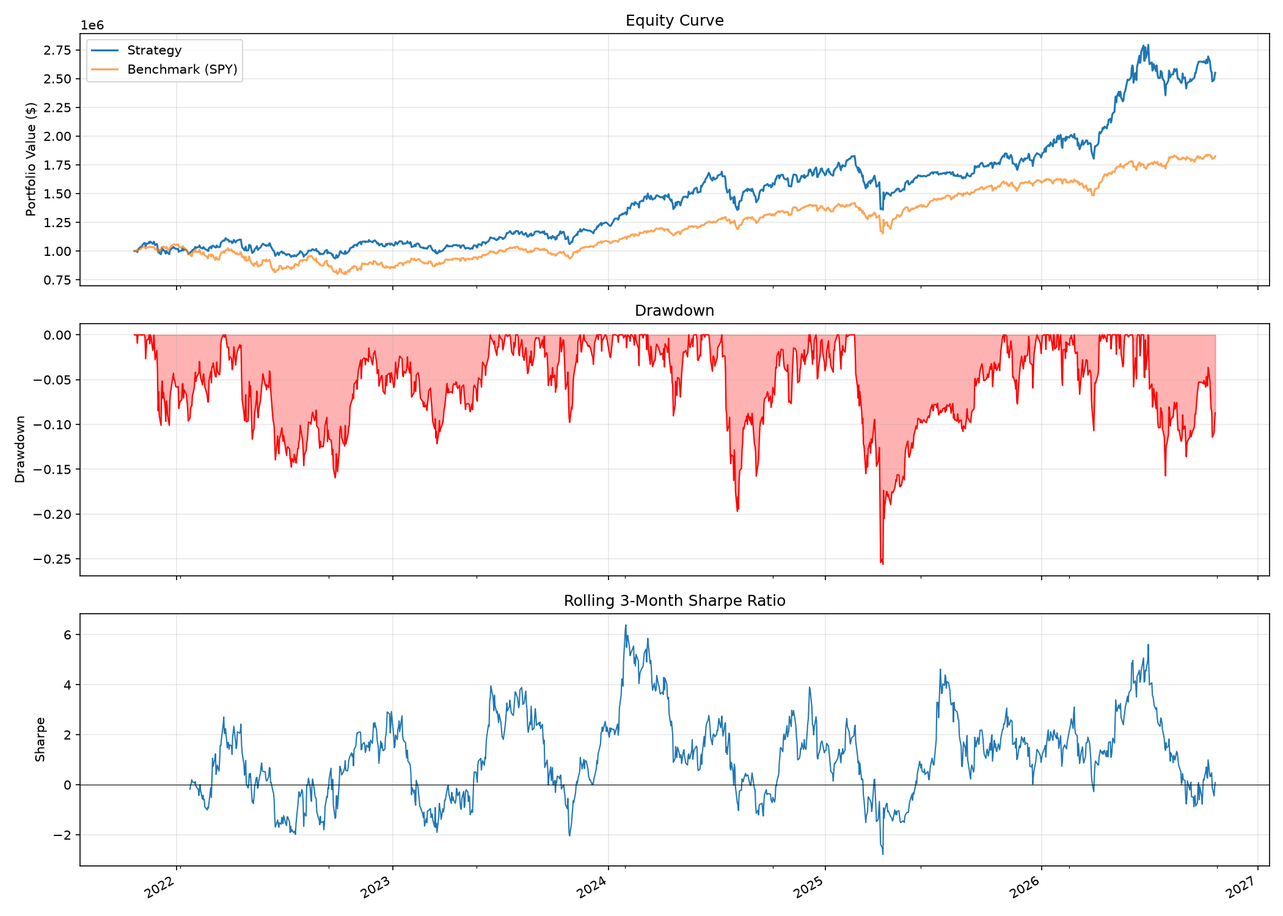
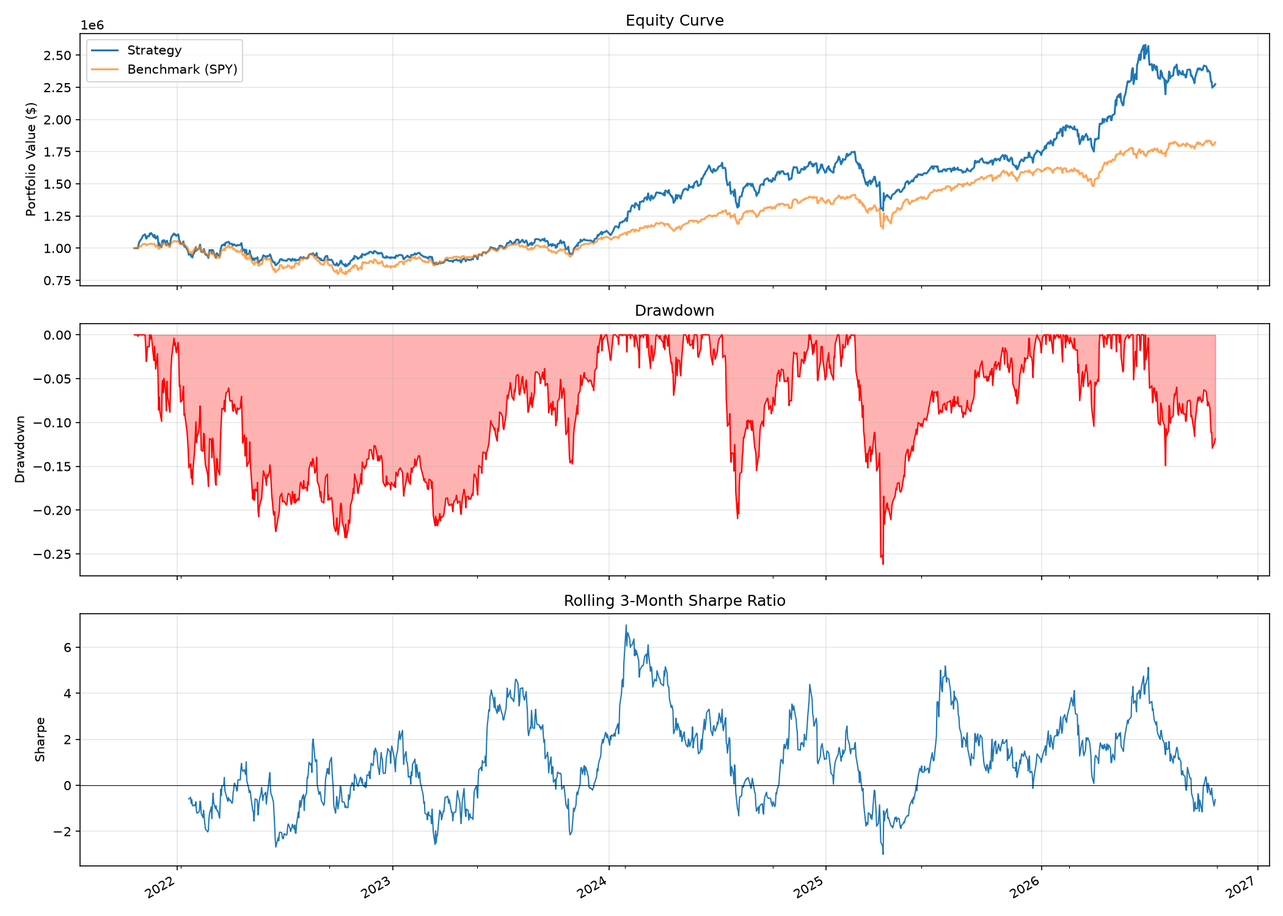
README: tables for all four books from run 39801405697 (windows ending 2026-10-21)
The multi-factor and LightGBM tables are the first from a backtest that
industry-neutralizes like the live path (multi-factor 5y +127.5% against
the un-neutralized +151.8%). The LightGBM section now says how far its
tables move between near-identical runs (5y between +94% and +138% today),
and the earnings book's windows come from the same refresh run as the rest.

Claude-Session: https://claude.ai/code/session_01SZpnwAYqHBgk4zLzSmnukJ

diff --git a/README.md b/README.md
@@ -1,8 +1,8 @@
 # Quant Trading System / 量化交易系统
 
-A multi-factor quantitative trading system for medium-term US equities. Uses momentum-driven alpha signals, score-proportional allocation with vol scaling, a total turnover cap and sector and position limits, dynamic leverage, and automated execution via Alpaca. A constrained mean-variance optimizer (Ledoit-Wolf covariance, smooth turnover penalty, SLSQP with analytic gradients) is available via `portfolio.allocation: mvo` as a research option; on the backtest windows ending 2026-10-22 it came out below the proportional allocation (multi-factor 5y +127.5% MVO vs +151.8% proportional), so the live books stay on `proportional`.
+A multi-factor quantitative trading system for medium-term US equities. Uses momentum-driven alpha signals, score-proportional allocation with vol scaling, a total turnover cap and sector and position limits, dynamic leverage, and automated execution via Alpaca. A constrained mean-variance optimizer (Ledoit-Wolf covariance, smooth turnover penalty, SLSQP with analytic gradients) is available via `portfolio.allocation: mvo` as a research option; on the backtest windows ending 2026-10-22 it came out below the proportional allocation (multi-factor 5y +127.5% MVO vs +151.8% proportional, both before the backtest was industry-neutralized), so the live books stay on `proportional`.
 
-多因子量化交易系统，专注于美股中期投资。基于动量驱动的 Alpha 信号，按分数比例配置权重，再经波动率缩放、总换手上限、行业与单票上限，结合动态杠杆管理，并通过 Alpaca 自动执行交易。带约束的均值-方差优化器（Ledoit-Wolf 协方差、平滑换手惩罚、解析梯度 SLSQP）可通过 `portfolio.allocation: mvo` 启用，属研究选项：在截至 2026-10-22 的回测窗口上低于分数比例配置（多因子 5 年 MVO +127.5% 对比 +151.8%），因此实盘账本保持 `proportional`。
+多因子量化交易系统，专注于美股中期投资。基于动量驱动的 Alpha 信号，按分数比例配置权重，再经波动率缩放、总换手上限、行业与单票上限，结合动态杠杆管理，并通过 Alpaca 自动执行交易。带约束的均值-方差优化器（Ledoit-Wolf 协方差、平滑换手惩罚、解析梯度 SLSQP）可通过 `portfolio.allocation: mvo` 启用，属研究选项：在截至 2026-10-22 的回测窗口上低于分数比例配置（多因子 5 年 MVO +127.5% 对比 +151.8%，两者都是回测尚未行业中性化时的结果），因此实盘账本保持 `proportional`。
 
 **[Paper Performance Dashboard / Paper 模拟盘看板 →](https://yingwang.github.io/trade/)**
 
@@ -37,42 +37,42 @@ Weekly decisions use paper-window alpha + attribution, execution health, model d
 
 ### Multi-Factor Strategy / 多因子策略 — **Candidate / 候选线**
 
-Recomputed 2026-10-22 by the `README Backtest Refresh` workflow (Actions run [39707077519](https://github.com/yingwang/trade/actions/runs/39707077519)) on commit `3228cf0`: one continuous simulation sliced into windows, next-session-open execution, the anchored rebalance calendar, the static sector table on both paths, targets computed from the actual drifted book, the volatility-scaled impact model, a turnover cap that may slow a rebalance but not sell the book below min(current, target) gross, and Sharpe/Sortino against a 4% risk-free rate.
+Recomputed 2026-10-22 by the `README Backtest Refresh` workflow (Actions run [39801405697](https://github.com/yingwang/trade/actions/runs/39801405697)) on commit `e55435f`, windows ending at the last completed session (2026-10-21): one continuous simulation sliced into windows, next-session-open execution, the anchored rebalance calendar, the static sector table on both paths (and, since this run, industry neutralization on the backtest path too), targets computed from the actual drifted book, the volatility-scaled impact model, a turnover cap that may slow a rebalance but not sell the book below min(current, target) gross, and Sharpe/Sortino against a 4% risk-free rate.
 
-由 `README Backtest Refresh` workflow 于 2026-10-22 重算（Actions run 39707077519，commit `3228cf0`）：一次连续模拟切成三个窗口，次日开盘成交，锚定的再平衡日历，回测与 paper/模拟盘共用的静态行业表，目标组合按真实漂移持仓计算，波动率尺度的冲击成本，换手上限只放慢调仓、不把毛头寸卖到「现有」与「目标」两者较低者之下，Sharpe/Sortino 按 4% 无风险利率计算。
+由 `README Backtest Refresh` workflow 于 2026-10-22 重算（Actions run 39801405697，commit `e55435f`，窗口止于最近一个已收盘交易日 2026-10-21）：一次连续模拟切成三个窗口，次日开盘成交，锚定的再平衡日历，回测与 paper/模拟盘共用的静态行业表（自这次起回测路径也做行业中性化），目标组合按真实漂移持仓计算，波动率尺度的冲击成本，换手上限只放慢调仓、不把毛头寸卖到「现有」与「目标」两者较低者之下，Sharpe/Sortino 按 4% 无风险利率计算。
 
-#### 5-Year Backtest (2021-10-22 → 2026-10-22)
-
-| Metric / 指标 | Strategy / 策略 | SPY | Difference / 差异 |
-|---------------|:-----------:|:---:|:---------:|
-| **Total Return / 总收益**  | **+151.8%** | +82.4% | **+69.4pp** |
-| **CAGR / 年化收益**         | **+20.4%** | — | — |
-| **Sharpe Ratio**        | **0.77** | — | — |
-| **Sortino Ratio**       | **1.09** | — | — |
-| **Max Drawdown / 最大回撤** | -25.6% | — | — |
-| **Information Ratio**   | **0.50** | — | — |
-
-#### 3-Year Backtest (2023-10-22 → 2026-10-22)
+#### 5-Year Backtest (2021-10-21 → 2026-10-21)
 
 | Metric / 指标 | Strategy / 策略 | SPY | Difference / 差异 |
 |---------------|:-----------:|:---:|:---------:|
-| **Total Return / 总收益**  | **+126.2%** | +90.7% | **+35.6pp** |
-| **CAGR / 年化收益**         | **+31.5%** | — | — |
-| **Sharpe Ratio**        | **1.09** | — | — |
-| **Sortino Ratio**       | **1.59** | — | — |
-| **Max Drawdown / 最大回撤** | -25.6% | — | — |
-| **Information Ratio**   | **0.50** | — | — |
+| **Total Return / 总收益**  | **+127.5%** | +82.2% | **+45.3pp** |
+| **CAGR / 年化收益**         | **+18.0%** | — | — |
+| **Sharpe Ratio**        | **0.68** | — | — |
+| **Sortino Ratio**       | **0.98** | — | — |
+| **Max Drawdown / 最大回撤** | -26.2% | — | — |
+| **Information Ratio**   | **0.43** | — | — |
 
-#### 1-Year Backtest (2025-10-22 → 2026-10-22)
+#### 3-Year Backtest (2023-10-21 → 2026-10-21)
 
 | Metric / 指标 | Strategy / 策略 | SPY | Difference / 差异 |
 |---------------|:-----------:|:---:|:---------:|
-| **Total Return / 总收益**  | **+46.2%** | +17.0% | **+29.2pp** |
-| **CAGR / 年化收益**         | **+46.6%** | — | — |
-| **Sharpe Ratio**        | **1.45** | — | — |
-| **Sortino Ratio**       | **2.18** | — | — |
-| **Max Drawdown / 最大回撤** | -15.8% | — | — |
-| **Information Ratio**   | **1.33** | — | — |
+| **Total Return / 总收益**  | **+128.5%** | +90.7% | **+37.9pp** |
+| **CAGR / 年化收益**         | **+32.0%** | — | — |
+| **Sharpe Ratio**        | **1.15** | — | — |
+| **Sortino Ratio**       | **1.71** | — | — |
+| **Max Drawdown / 最大回撤** | -26.2% | — | — |
+| **Information Ratio**   | **0.56** | — | — |
+
+#### 1-Year Backtest (2025-10-21 → 2026-10-21)
+
+| Metric / 指标 | Strategy / 策略 | SPY | Difference / 差异 |
+|---------------|:-----------:|:---:|:---------:|
+| **Total Return / 总收益**  | **+34.5%** | +16.4% | **+18.1pp** |
+| **CAGR / 年化收益**         | **+34.7%** | — | — |
+| **Sharpe Ratio**        | **1.20** | — | — |
+| **Sortino Ratio**       | **1.88** | — | — |
+| **Max Drawdown / 最大回撤** | -14.9% | — | — |
+| **Information Ratio**   | **1.00** | — | — |
 
 #### Performance Chart / 净值曲线 (5-Year)
 
@@ -82,48 +82,52 @@ The July 2026 tables (5-year +193.6%, Sharpe 0.87, max drawdown -28.9%) were pro
 
 2026 年 7 月的表格（五年 +193.6%，Sharpe 0.87，最大回撤 -28.9%）产生于回测路径尚无行业表、目标组合从上期目标而非实际持仓链式推导、冲击成本几乎为零的版本；上述修正之后，其中约一半的超额收益不复存在。最大回撤下降，是因为 50% 行业上限和行业中性化此时才真正起作用。
 
+The earlier 2026-10-22 table (run 39707077519: 5-year +151.8%) still came from a backtest that never industry-neutralized: `SignalGenerator.generate` took its sector map from the fundamentals snapshot, which the backtest does not have, while the live book neutralized every day. Both paths now neutralize by the static sector table, so the table above is the signal the account trades; the correction costs about 24 points over five years. On the same windows the 100 names held in equal weights returned about 17% a year against SPY's 12.8%, and the `docs/research/2026-10-22-alpha-audit.md` memo finds the composite's 21-day rank IC close to zero over 2008-2026: most of this book's excess is the universe and its leverage rather than the ranking.
+
+同日早些时候那张表（run 39707077519，五年 +151.8%）出自一个从未做行业中性化的回测：`SignalGenerator.generate` 从基本面快照里取行业，而回测没有快照，实盘却每天都在中性化。现在两条路径都按静态行业表中性化，上面这张表才是账户真正交易的那套信号，修正让五年少了约 24 个百分点。同样的窗口里，这 100 只等权持有年化约 17%，SPY 12.8%；`docs/research/2026-10-22-alpha-audit.md` 测得合成信号 2008 到 2026 年的 21 日秩相关 IC 接近零：这本账的超额主要来自股票池和杠杆，而非排序。
+
 ### Trend Strategy / 趋势策略 — **Sandbox / 沙盒** (params frozen; third paper account)
 
 A third book, on its own Alpaca paper account, built to compete with the two above on raw return: concentrated leveraged trend-following (`quant/trend_strategy.py`, `config_trend.yaml`, `paper_trade_trend.py`). Seven names, chosen by blended 12-1 / 6-1 / 3-month momentum among stocks above their 200-day average, sized by inverse volatility, scaled to a 35% volatility target with up to 1.9x gross. Three market warning lights (SPY below its 200-day average, SPY 21-day volatility above 30%, fewer than 30% of the universe above their 50-day averages) cap gross at 0.6x with one light on and send the book to cash with two. Rebalance every ten sessions on the shared anchored calendar; every session checks trailing stops (20% below the highest close since entry) and the regime cap, and acts the same day. The parameters were settled by a twelve-variant sweep on the five-year window: rebalancing every ten sessions rather than five and holding seven names rather than ten were the two changes that mattered, while tighter stops and a softer regime cut both hurt. Backtest tables come from the `Trend Backtest` workflow and `README Backtest Refresh` with the trend option; they carry the same survivorship caveat as the multi-factor table.
 
 第三个账户走的是另一条路：集中、带杠杆的趋势跟随。在 200 日线之上的股票里按 12-1、6-1、3 个月动量混合排序取前七只，按波动率倒数配权，把组合年化波动定在 35% 并允许最高 1.9 倍毛头寸；大盘破 200 日线、大盘 21 日波动率超过 30%、市场宽度弱于 30% 这三盏警示灯亮一盏毛头寸压到 0.6 倍、亮两盏清仓。每十个交易日按共享的锚定日历调仓，每个交易日检查 20% 移动止损与仓位上限并当天执行。参数由五年窗口上的十二组对照定下：十日调仓代替五日、七只代替十只是两处真正起作用的改动，收紧止损和放松减仓门槛都更差。回测表由 `Trend Backtest` workflow 生成，幸存者偏差的说明与多因子表相同。
 
-Recomputed 2026-10-22 by the `README Backtest Refresh` workflow (Actions run [39707077519](https://github.com/yingwang/trade/actions/runs/39707077519)) on commit `3228cf0`, with the trailing stop measured from the highest close since entry (the 18 September fix) and the turnover cap that lets an under-invested book re-lever, the same continuous simulation sliced into windows as the multi-factor tables above. Static universe, so the same survivorship caveat applies, and the concentration (seven names, up to 1.9x gross) makes the numbers more sensitive to it than the multi-factor book's.
+Recomputed 2026-10-22 by the `README Backtest Refresh` workflow (Actions run [39801405697](https://github.com/yingwang/trade/actions/runs/39801405697)) on commit `e55435f`, windows ending 2026-10-21, with the trailing stop measured from the highest close since entry (the 18 September fix) and the turnover cap that lets an under-invested book re-lever, the same continuous simulation sliced into windows as the multi-factor tables above. Static universe, so the same survivorship caveat applies, and the concentration (seven names, up to 1.9x gross) makes the numbers more sensitive to it than the multi-factor book's.
 
-由 `README Backtest Refresh` workflow 于 2026-10-22 重算（Actions run 39707077519，commit `3228cf0`），移动止损已按入场以来最高收盘计算（9 月 18 日的修正），换手上限也已允许欠配的账户加回仓位，与上面多因子表同样是一次连续模拟切成三个窗口。股票池是静态的，幸存者偏差的说明同上；这一本只持七只、最高 1.9 倍毛头寸，对这种偏差比多因子那本更敏感。
+由 `README Backtest Refresh` workflow 于 2026-10-22 重算（Actions run 39801405697，commit `e55435f`，窗口止于 2026-10-21），移动止损已按入场以来最高收盘计算（9 月 18 日的修正），换手上限也已允许欠配的账户加回仓位，与上面多因子表同样是一次连续模拟切成三个窗口。股票池是静态的，幸存者偏差的说明同上；这一本只持七只、最高 1.9 倍毛头寸，对这种偏差比多因子那本更敏感。
 
-### 5-Year Backtest (2021-10-22 → 2026-10-22)
-
-| Metric / 指标 | Strategy / 策略 | SPY | Difference / 差异 |
-|---------------|:-----------:|:---:|:---------:|
-| **Total Return / 总收益**  | **+200.1%** | +82.4% | **+117.7pp** |
-| **CAGR / 年化收益**         | **+24.7%** | — | — |
-| **Sharpe Ratio**        | **0.74** | — | — |
-| **Sortino Ratio**       | **1.08** | — | — |
-| **Max Drawdown / 最大回撤** | -31.3% | — | — |
-| **Information Ratio**   | **0.52** | — | — |
-
-### 3-Year Backtest (2023-10-22 → 2026-10-22)
+### 5-Year Backtest (2021-10-21 → 2026-10-21)
 
 | Metric / 指标 | Strategy / 策略 | SPY | Difference / 差异 |
 |---------------|:-----------:|:---:|:---------:|
-| **Total Return / 总收益**  | **+220.8%** | +90.7% | **+130.2pp** |
-| **CAGR / 年化收益**         | **+47.9%** | — | — |
-| **Sharpe Ratio**        | **1.21** | — | — |
-| **Sortino Ratio**       | **1.82** | — | — |
-| **Max Drawdown / 最大回撤** | -29.7% | — | — |
-| **Information Ratio**   | **0.81** | — | — |
+| **Total Return / 总收益**  | **+205.0%** | +82.2% | **+122.8pp** |
+| **CAGR / 年化收益**         | **+25.1%** | — | — |
+| **Sharpe Ratio**        | **0.75** | — | — |
+| **Sortino Ratio**       | **1.09** | — | — |
+| **Max Drawdown / 最大回撤** | -33.3% | — | — |
+| **Information Ratio**   | **0.54** | — | — |
 
-### 1-Year Backtest (2025-10-22 → 2026-10-22)
+### 3-Year Backtest (2023-10-21 → 2026-10-21)
 
 | Metric / 指标 | Strategy / 策略 | SPY | Difference / 差异 |
 |---------------|:-----------:|:---:|:---------:|
-| **Total Return / 总收益**  | **+40.6%** | +17.0% | **+23.6pp** |
-| **CAGR / 年化收益**         | **+41.0%** | — | — |
-| **Sharpe Ratio**        | **1.02** | — | — |
-| **Sortino Ratio**       | **1.47** | — | — |
-| **Max Drawdown / 最大回撤** | -23.5% | — | — |
-| **Information Ratio**   | **0.83** | — | — |
+| **Total Return / 总收益**  | **+235.4%** | +90.7% | **+144.7pp** |
+| **CAGR / 年化收益**         | **+50.1%** | — | — |
+| **Sharpe Ratio**        | **1.25** | — | — |
+| **Sortino Ratio**       | **1.88** | — | — |
+| **Max Drawdown / 最大回撤** | -31.2% | — | — |
+| **Information Ratio**   | **0.87** | — | — |
+
+### 1-Year Backtest (2025-10-21 → 2026-10-21)
+
+| Metric / 指标 | Strategy / 策略 | SPY | Difference / 差异 |
+|---------------|:-----------:|:---:|:---------:|
+| **Total Return / 总收益**  | **+40.0%** | +16.4% | **+23.6pp** |
+| **CAGR / 年化收益**         | **+40.2%** | — | — |
+| **Sharpe Ratio**        | **1.00** | — | — |
+| **Sortino Ratio**       | **1.45** | — | — |
+| **Max Drawdown / 最大回撤** | -19.4% | — | — |
+| **Information Ratio**   | **0.82** | — | — |
 
 ### Earnings Book / 财报账本 — **Candidate / 候选线** (fourth paper account)
 
@@ -135,27 +139,29 @@ The one set of signals with a positive IC in every sub-period since 2010 was bui
 
 唯一在 2010 年以来每个子时期都为正的信号，来自标普 500 时点池上的财报公告：一致预期的盈利意外、EPS 同比增速，再加 12 到 6 个月的中期动量。研究里的合成还有一项「离下次财报的天数」，账本没有用它：它在回测里的贡献来自比公司确认日期更早地知道日期。账本按合成分数取前 25 只等权，每五个交易日调仓，不设止损、不看灯号、不加杠杆：趋势本的每一样风控装置在这套排序上都减收益，波动率倒数配权与波动率目标也一样（见 `docs/research/2026-10-22-alpha-audit.md`）。
 
-Backtest on 2026-10-22 (Actions run [39757846026](https://github.com/yingwang/trade/actions/runs/39757846026), `research/earnings_book.py`, 2010-01-01 to 2026-10-22, the engine's next-open fills and impact model, no leverage): CAGR 16.7% against SPY's 14.7%, Sharpe 0.63, max drawdown -34.1%; 2016 to 2020 trailed SPY in every year but one (2018 -11.1% against -4.6%). The windows below are slices of that run. Two cautions: delisted members have no price history, so the universe still favours survivors, and the same configuration moves by about a point of CAGR between runs with Yahoo's coverage of the calendar (an identical variant earlier that day came out at 15.6%). The comparison that counts is the paper record.
+Backtest on 2026-10-22 (Actions run [39757846026](https://github.com/yingwang/trade/actions/runs/39757846026), `research/earnings_book.py`, 2010-01-01 to 2026-10-22, the engine's next-open fills and impact model, no leverage): CAGR 16.7% against SPY's 14.7%, Sharpe 0.63, max drawdown -34.1%; 2016 to 2020 trailed SPY in every year but one (2018 -11.1% against -4.6%). Two cautions: delisted members have no price history, so the universe still favours survivors, and the same configuration moves by about a point of CAGR between runs with Yahoo's coverage of the calendar (an identical variant earlier that day came out at 15.6%). The comparison that counts is the paper record.
+
+The windows below come from the same `README Backtest Refresh` run as the other books' tables ([39801405697](https://github.com/yingwang/trade/actions/runs/39801405697), commit `e55435f`, windows ending 2026-10-21), one continuous simulation started five years back; a book started in 2010 arrives in October 2021 holding other names, which is why the long run's own five-year slice reads higher (+181.2%).
 
 | Window / 窗口 | Strategy / 策略 | SPY | Difference / 差异 | CAGR | Sharpe | Max DD |
 |---|:---:|:---:|:---:|:---:|:---:|:---:|
-| 5-Year (2021-10-22 → 2026-10-22) | +181.2% | +82.4% | +98.8pp | +23.1% | 0.83 | -21.6% |
-| 3-Year (2023-10-22 → 2026-10-22) | +165.5% | +90.7% | +74.8pp | +38.8% | 1.39 | -19.3% |
-| 1-Year (2025-10-22 → 2026-10-22) | +29.0% | +17.0% | +12.0pp | +29.2% | 0.95 | -15.7% |
+| 5-Year (2021-10-21 → 2026-10-21) | +146.0% | +82.2% | +63.8pp | +19.8% | 0.73 | -21.1% |
+| 3-Year (2023-10-21 → 2026-10-21) | +143.4% | +90.7% | +52.8pp | +34.8% | 1.30 | -19.8% |
+| 1-Year (2025-10-21 → 2026-10-21) | +28.4% | +16.4% | +12.0pp | +28.6% | 0.96 | -14.6% |
 
 With a fixed 1.3x gross the four-signal version's 2010-2026 CAGR rose from 16.1% to 17.2% with a 47% drawdown, with 1.5x to 18.4% and 53%; the book runs unlevered until its paper record says otherwise. Tables for this book come from `README Backtest Refresh` with the earnings option.
 
 ### LightGBM Strategy / LightGBM 策略 — **Research / 研究线** (paper orders)
 
-Same run, same windows. In this run the ranking model is ahead of the benchmark in all three windows; in the 2026-09-22 run (35768997115) it trailed in all three (5-year +61.7% against +89.0%). What changed between the two runs is not the model but the turnover cap, which now lets an under-invested book re-lever instead of pinning it, plus a month of market rolling into every window. The nightly training diagnostics are unchanged (best iteration between 1 and 8, baseline skill negative), and the paper account's excess return since April 2026 is, by the dashboard's attribution, mostly sector exposure. Treat this strategy as research until the model itself shows skill. Its paper account trades on schedule; from 2026-09-18 to 09-22 the schedule ran dry-run and the account sat frozen, so that stretch of its paper record is not the model.
+Same run, same windows. The model's tables move a long way between runs that should be nearly identical: five years came out at +137.6% in the morning's run (39707077519), +125.1% with the neutralization fix on its branch (39736781949), +136.8% in a run that included the half-formed 10/22 bar (39799812590) and +94.3% here, against +61.7% in the 2026-09-22 run (35768997115). A one-session shift in the start of the continuous simulation changes the first holdings, and with a model this close to noise the path never converges back. Read these numbers as an interval, not a point. The nightly training diagnostics are unchanged (best iteration between 1 and 8, baseline skill negative), and the paper account's excess return since April 2026 is, by the dashboard's attribution, mostly sector exposure. Treat this strategy as research until the model itself shows skill. Its paper account trades on schedule; from 2026-09-18 to 09-22 the schedule ran dry-run and the account sat frozen, so that stretch of its paper record is not the model.
 
-同一次运行、同样的窗口。这一次排序模型在三个窗口都领先基准；2026-09-22 那次（run 35768997115）它三个窗口全部落后（五年 +61.7% 对 +89.0%）。两次之间变的不是模型，而是换手上限：它现在允许欠配的账户加回仓位，不再把账户钉在原地，另外每个窗口都多滚进了一个月行情。每夜重训的诊断没有变化（best iteration 在 1 到 8 之间，基线技能为负），模拟账户自 2026 年 4 月以来的超额收益按看板归因主要来自行业暴露。在模型本身显出能力之前，这条策略仍应视为研究项目。它的模拟账户照常定时交易；2026-09-18 到 09-22 定时任务只做 dry-run，账户原样冻结，这一段模拟盘记录反映的不是模型。
+同一次运行、同样的窗口。这个模型的表格在本应几乎相同的几次运行之间相差很大：五年期在当天早上那次（39707077519）是 +137.6%，在行业中性修正的分支上（39736781949）是 +125.1%，在误含 10/22 半截 K 线的那次（39799812590）是 +136.8%，这一次是 +94.3%，而 2026-09-22 那次（35768997115）是 +61.7%。连续模拟的起点挪一个交易日，第一批持仓就不同，而这个模型离噪声太近，路径分开之后不会再收拢。这些数字应当当成一个区间来读，而不是一个点。每夜重训的诊断没有变化（best iteration 在 1 到 8 之间，基线技能为负），模拟账户自 2026 年 4 月以来的超额收益按看板归因主要来自行业暴露。在模型本身显出能力之前，这条策略仍应视为研究项目。它的模拟账户照常定时交易；2026-09-18 到 09-22 定时任务只做 dry-run，账户原样冻结，这一段模拟盘记录反映的不是模型。
 
 | Window / 窗口 | Strategy / 策略 | SPY | Difference / 差异 | Sharpe | Max DD |
 |---|:---:|:---:|:---:|:---:|:---:|
-| 5-Year (2021-10-22 → 2026-10-22) | +137.6% | +82.4% | +55.2pp | 0.77 | -20.5% |
-| 3-Year (2023-10-22 → 2026-10-22) | +128.7% | +90.7% | +38.1pp | 1.30 | -20.5% |
-| 1-Year (2025-10-22 → 2026-10-22) | +30.7% | +17.0% | +13.6pp | 1.28 | -9.4% |
+| 5-Year (2021-10-21 → 2026-10-21) | +94.3% | +82.2% | +12.1pp | 0.57 | -24.5% |
+| 3-Year (2023-10-21 → 2026-10-21) | +88.5% | +90.7% | -2.2pp | 0.96 | -24.5% |
+| 1-Year (2025-10-21 → 2026-10-21) | +34.2% | +16.4% | +17.8pp | 1.30 | -11.8% |
 
 Even after rerunning, the default static stock universe must be labelled as
 survivorship-biased. A bias-reduced run requires both the optional

diff --git a/CLAUDE.md b/CLAUDE.md
@@ -54,7 +54,7 @@ data/   signals/   portfolio/   execution/   backtest/
 - **`quant/data/market_data.py`** — yfinance wrapper for prices, same-download opens/volumes, and fundamentals
 - **`quant/data/quality.py`** — `DataQualityChecker` (logging, backtest path) and `enforce_live_data_quality` (hard gate, live path — drops dead symbols, aborts on breadth collapse)
 - **`quant/signals/factors.py`** — Alpha factor calculations. Factors are industry-neutralized and winsorized to ±3σ. `factor_weights` in config is the single source of truth: unlisted factors are 0, no hidden defaults
-- **`quant/portfolio/optimizer.py`** — Portfolio construction. `optimize_weights()` builds score-proportional weights by default (`portfolio.allocation: proportional`, what the live books run); `portfolio.allocation: mvo` runs the constrained mean-variance optimizer instead (Ledoit-Wolf covariance, smooth turnover penalty, SLSQP with analytic gradients, outcome in `last_solve_status`), a research option that backtested below proportional (multi-factor 5y +127.5% MVO vs +151.8% proportional, windows ending 2026-10-22). `detect_regime()` (SPY vol), `apply_vol_scaling()` (0.8x–1.8x), and `enforce_turnover_cap()` — the real 40% cap, applied to final weights including exit legs and leverage changes, the same way for either allocation
+- **`quant/portfolio/optimizer.py`** — Portfolio construction. `optimize_weights()` builds score-proportional weights by default (`portfolio.allocation: proportional`, what the live books run); `portfolio.allocation: mvo` runs the constrained mean-variance optimizer instead (Ledoit-Wolf covariance, smooth turnover penalty, SLSQP with analytic gradients, outcome in `last_solve_status`), a research option that backtested below proportional (multi-factor 5y +127.5% MVO vs +151.8% proportional, windows ending 2026-10-22, both before the backtest was industry-neutralized; neutralized proportional is +127.5% too, run 39801405697). `detect_regime()` (SPY vol), `apply_vol_scaling()` (0.8x–1.8x), and `enforce_turnover_cap()` — the real 40% cap, applied to final weights including exit legs and leverage changes, the same way for either allocation
 - **`quant/execution/safety.py`** — `PreTradeCheck` limits; `DailyTracker` counters persist across same-day runs via the state file
 - **`quant/backtest/engine.py`** — Event-driven daily simulator: T-close signal / next-session-open execution, pending missing-bar orders, next-bar stop-losses, delisting returns, margin interest, market impact, and corrected risk metrics
 - **`quant/attribution.py`** — Actual-account attribution against SPY. Reconstructs holdings from fills; uses strictly lagged returns-based ETF factors for market/style/industry, keeps selection/cash/implementation-shortfall explicit, exposes reconciliation residual, and Carino-links terminal contributions
